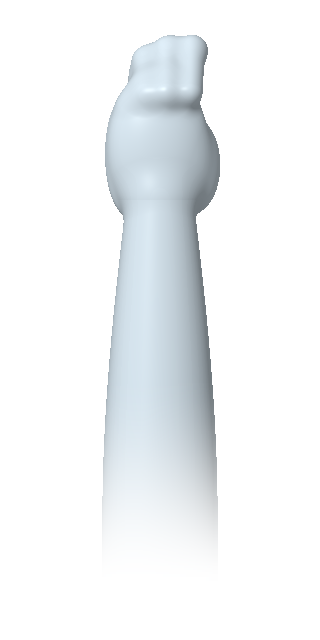
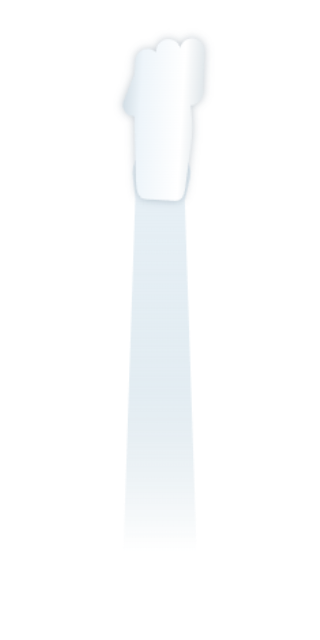
Fix camera-facing grip detection and smooth folded ghost gloves

Changed region(s): [[0.3125, 0.0312, 0.6875, 0.8438]]

diff --git a/src/live-glove.js b/src/live-glove.js
@@ -1,19 +1,31 @@
 const distance=(a,b)=>Math.hypot(a.x-b.x,a.y-b.y);
 const mix=(a,b,t)=>({x:a.x+(b.x-a.x)*t,y:a.y+(b.y-a.y)*t});
+// Union of tapered segments with round ends. Tangents across a folded finger
+// can reverse; building one outline from those tangents creates bow-ties/spikes.
 function tube(path,points,radii){
- const sides=[[],[]];
  for(let i=0;i<points.length;i++){
-  const a=points[Math.max(0,i-1)],b=points[Math.min(points.length-1,i+1)],length=Math.max(.001,distance(a,b));
-  const nx=-(b.y-a.y)/length,ny=(b.x-a.x)/length;
-  for(let side=0;side<2;side++){const r=radii[i]*(side?-1:1);sides[side].push({x:points[i].x+nx*r,y:points[i].y+ny*r})}
+  const p=points[i],r=radii[i];path.moveTo(p.x+r,p.y);path.arc(p.x,p.y,r,0,Math.PI*2);path.closePath();
+  if(!i)continue;
+  const a=points[i-1],length=distance(a,p);if(length<.001)continue;
+  const nx=-(p.y-a.y)/length,ny=(p.x-a.x)/length,ra=radii[i-1];
+  // Same winding as the circular caps, so overlapping folds stay solid.
+  path.moveTo(a.x+nx*ra,a.y+ny*ra);path.lineTo(a.x-nx*ra,a.y-ny*ra);
+  path.lineTo(p.x-nx*r,p.y-ny*r);path.lineTo(p.x+nx*r,p.y+ny*r);path.closePath();
  }
- roundedHull(path,[...sides[0],...sides[1].reverse()]);
+}
+function palmHull(points){
+ const sorted=[...points].sort((a,b)=>a.x-b.x||a.y-b.y),cross=(a,b,c)=>(b.x-a.x)*(c.y-a.y)-(b.y-a.y)*(c.x-a.x);
+ const half=items=>{const out=[];for(const p of items){while(out.length>1&&cross(out.at(-2),out.at(-1),p)<=0)out.pop();out.push(p)}return out};
+ return [...half(sorted).slice(0,-1),...half(sorted.toReversed()).slice(0,-1)];
 }
 function roundedHull(path,points){
  const area=points.reduce((v,p,i)=>{const q=points[(i+1)%points.length];return v+p.x*q.y-p.y*q.x},0);
  if(area<0)points=[...points].reverse();
- const start=mix(points.at(-1),points[0],.5);path.moveTo(start.x,start.y);
- for(let i=0;i<points.length;i++){const q=mix(points[i],points[(i+1)%points.length],.5);path.quadraticCurveTo(points[i].x,points[i].y,q.x,q.y)}path.closePath();
+ const start=mix(points[0],points.at(-1),.18);path.moveTo(start.x,start.y);
+ for(let i=0;i<points.length;i++){
+  const p=points[i],before=mix(p,points[(i+points.length-1)%points.length],.18),after=mix(p,points[(i+1)%points.length],.18);
+  path.lineTo(before.x,before.y);path.quadraticCurveTo(p.x,p.y,after.x,after.y);
+ }path.closePath();
 }
 // A single softly shaded silhouette has no drawn joint spheres, nails or knuckle lines.
 // All five finger curves come directly from the 21 live landmarks, including partial curls.
@@ -26,7 +38,10 @@ function paintGlove(ctx,hand,palm,elbow=null,thumbInside=false){
  const cuff=[{x:wrist.x+nx*size*.22,y:wrist.y+ny*size*.22},{x:wrist.x-nx*size*.22,y:wrist.y-ny*size*.22}];
  // Order the wrist edges by proximity to the thumb side; this survives hand rotation.
  if(distance(cuff[0],hand[1])>distance(cuff[1],hand[1]))cuff.reverse();
- roundedHull(path,thumbInside?[cuff[0],mix(hand[1],hand[5],.5),hand[5],hand[9],hand[13],hand[17],cuff[1]]:[cuff[0],hand[1],hand[2],hand[5],hand[9],hand[13],hand[17],cuff[1]]);
+ roundedHull(path,palmHull(thumbInside?[cuff[0],mix(hand[1],hand[5],.5),hand[5],hand[9],hand[13],hand[17],cuff[1]]:[cuff[0],hand[1],hand[2],hand[5],hand[9],hand[13],hand[17],cuff[1]]));
+ // When the thumb folds across the index base, its pad covers the web space.
+ // Join that contact area so a closed glove cannot acquire a triangular hole.
+ if(!thumbInside&&distance(hand[3],hand[5])<size*.55)roundedHull(path,palmHull([hand[1],hand[2],hand[3],hand[5],hand[9]]));
  for(let digit=thumbInside?1:0;digit<5;digit++){
    const start=1+digit*4,ids=[start,start+1,start+2,start+3],radius=r*(digit===0?1.16:digit===4?.83:1);
    tube(path,ids.map(i=>hand[i]),[radius*1.08,radius,radius*.87,radius*.78]);
@@ -54,7 +69,7 @@ function paintGlove(ctx,hand,palm,elbow=null,thumbInside=false){
 
 let surface;
 // Composite the complete glove once so overlapping fingers never become brighter blobs.
-export function drawLiveGlove(ctx,hand,palm,elbow=null,thumbInside=false){
+export function drawLiveGlove(ctx,hand,palm,elbow=null,thumbInside=false,opacity=.78){
  if(!hand)return;
  surface??=Object.assign(document.createElement('canvas'),{width:512,height:512});
  const all=elbow?[...hand,elbow]:hand,pad=Math.max(12,distance(hand[0],hand[9])*.5);
@@ -62,5 +77,5 @@ export function drawLiveGlove(ctx,hand,palm,elbow=null,thumbInside=false){
  const w=Math.max(...all.map(p=>p.x))-x+pad,h=Math.max(...all.map(p=>p.y))-y+pad,s=Math.min(2,512/Math.max(w,h));
  const paint=surface.getContext('2d');paint.setTransform(1,0,0,1,0,0);paint.clearRect(0,0,512,512);
  paint.setTransform(s,0,0,s,-x*s,-y*s);paintGlove(paint,hand,palm,elbow,thumbInside);
- ctx.save();ctx.globalAlpha=.78;ctx.drawImage(surface,0,0,w*s,h*s,x,y,w,h);ctx.restore();
+ ctx.save();ctx.globalAlpha=opacity;ctx.drawImage(surface,0,0,w*s,h*s,x,y,w,h);ctx.restore();
 }

diff --git a/src/collar-interaction.js b/src/collar-interaction.js
@@ -39,9 +39,9 @@ export function collarHit(point,deformation=[],excluded=[]){
  for(const side of [-1,1]){
   if(excluded.includes(side))continue;
   for(let k=0;k<=120;k++){
-   const t=k/120,rest=lapelRest(side,t);if(rest.y<.145||rest.y>.43)continue;
+   const t=k/120,rest=lapelRest(side,t);if(rest.y<.12||rest.y>.46)continue;
    const p=lapelPoint(side,t,deformation),d=Math.hypot(point.x-p.x,point.y-p.y);
-   if(d<.092&&(!best||d<best.distance))best={side,t,point:p,distance:d};
+   if(d<.13&&(!best||d<best.distance))best={side,t,point:p,distance:d};
   }
  }
  return best;
@@ -58,19 +58,19 @@ function fingerExtensions(hand){
 }
 export function fingerExtension(hand){const ratios=fingerExtensions(hand);return ratios?ratios.reduce((a,b)=>a+b,0)/4:null}
 function deliberatelyOpen(hand){return fingerExtensions(hand)?.every(r=>r>.94)??false}
-// Use the 3D palm normal, including depth: a natural grip may be edge-on
-// to the webcam. A 2D projected-area test would force the user to flatten it.
+// Camera-facing normal only: gravity/vertical tilt must not swap palm and back.
+// In projected mirrored coordinates a positive value means palm toward camera.
+export function cameraPalmNormal(hand,index,mirrored=true){
+ const w=hand[0],a=hand[5],b=hand[17];
+ const u={x:a.x-w.x,y:a.y-w.y,z:(a.z??0)-(w.z??0)},v={x:b.x-w.x,y:b.y-w.y,z:(b.z??0)-(w.z??0)};
+ const nx=u.y*v.z-u.z*v.y,ny=u.z*v.x-u.x*v.z,nz=u.x*v.y-u.y*v.x,length=Math.hypot(nx,ny,nz);
+ return length<.00001?0:nz*(index?-1:1)*(mirrored?-1:1)/length;
+}
 export function gripPosture(hand,index,side,mirrored,direction){
- const center=graspCenter(hand),wrist=hand[0],dx=center.x-wrist.x,dy=center.y-wrist.y,length=Math.hypot(dx,dy);
  if(side!==(index?-1:1)*(mirrored?1:-1))return 'opposite';
- if(length<.025||side*dx/length<.25||dy/length>-.12)return 'diagonal';
- const a=hand[5],b=hand[17],u={x:a.x-wrist.x,y:a.y-wrist.y,z:(a.z??0)-(wrist.z??0)},v={x:b.x-wrist.x,y:b.y-wrist.y,z:(b.z??0)-(wrist.z??0)};
- const nx=u.y*v.z-u.z*v.y,ny=u.z*v.x-u.x*v.z,nz=u.x*v.y-u.y*v.x;
- const length3D=Math.hypot(nx,ny,nz);
- if(length3D<.00001)return 'turn';
- // Downward and toward-camera components form the expected grip hemisphere.
- const normal=(ny-nz)*(index?-1:1)*(mirrored?1:-1)/(Math.SQRT2*length3D);
- if(Math.abs(normal)<.10)return 'turn';
+ const normal=cameraPalmNormal(hand,index,mirrored);
+ // Allow broad tilt, but an edge-on hand supplies no reliable front/back signal.
+ if(Math.abs(normal)<.20)return 'turn';
  if((normal>0)!==(direction==='↓'))return 'palm';
  return null;
 }
@@ -103,7 +103,7 @@ export class CollarInteraction{
     continue;
    }
    const center=graspCenter(hand);
-   if(extension>.90)h.closed=false;else if(extension<.86)h.closed=true;
+   if(extension>.96)h.closed=false;else if(extension<.92)h.closed=true;
    if(h.grip){
     // Opening must be clear and sustained; a curled grip never unlatches merely
     // because it left the original collision zone while being pulled.
@@ -130,11 +130,11 @@ export class CollarInteraction{
    h.posture=h.hover?gripPosture(hand,i,h.hover.side,mirrored,directions[i]):null;
    h.armed=!!h.hover&&!h.posture;
    // Bent fingers may enter already prepared: no fully-open gesture is required.
-   // Stable contact + correct opposite lapel, diagonal wrist and palm orientation
+   // Stable contact + correct opposite lapel and camera-facing palm orientation
    // prevent an arbitrary fist or a flat open hand from attaching to the coat.
    if(!h.closed||!h.armed){h.pending=null;continue}
    if(!h.pending||h.pending.side!==h.hover.side)h.pending={...h.hover,since:now};
-   if(now-h.pending.since>=120){
+   if(now-h.pending.since>=100){
     const hit=h.hover,rest=lapelRest(hit.side,hit.t),offset={x:center.x-rest.x,y:center.y-rest.y};
     h.grip={side:hit.side,t:hit.t,start:center,center,offset,dx:offset.x,dy:offset.y,travelX:0};h.pending=null;
    }

diff --git a/src/app.js b/src/app.js
@@ -134,7 +134,7 @@ function draw(now){
   }else drawGripGuides(ctx,scene,practiceGuide(selected,(now-guideStarted)/1000),activeTechnique.directions,mirrored,GRIP_STEPS[selected]);
   const feedback=demonstrating?`깃 안쪽: ${activeTechnique.directions.map((d,i)=>`${i?'오른손':'왼손'} ${d==='↑'?'네 손가락':'엄지'}`).join(' · ')}`:
     state?.trackingPaused?'깃은 잡고 있습니다. 양손이 다시 보이면 당김 판정을 이어갑니다.':!state?.visible?'양손과 어깨가 보이도록 서 주세요.':state.tapped?'TAP! 손을 펴서 깃을 놓으세요.':
-    state.posture?.some(p=>p==='palm'||p==='turn')?'기술 설명의 손바닥 방향으로 손을 돌려 깃을 잡으세요.':state.posture?.some(Boolean)?'손목을 비스듬히 교차해 각각 반대편 깃을 잡으세요.':
+    state.posture?.some(p=>p==='palm'||p==='turn')?`카메라에 왼손 ${activeTechnique.directions[0]==='↓'?'손바닥':'손등'}, 오른손 ${activeTechnique.directions[1]==='↓'?'손바닥':'손등'}이 보이게 해 주세요.`:state.posture?.some(Boolean)?'각 손으로 반대편 깃을 잡으세요.':
     state.count===0?'손가락을 굽히고 손목을 교차해 반대편 깃을 잡으세요.':state.count===1?'한쪽 깃이 잡혔습니다. 다른 손으로 반대쪽 깃을 잡으세요.':
     !state.crossed?'손을 교차해 각각 반대편 깃을 잡으세요.':state.pullDirection==='together'?'양손이 같은 방향으로 움직였습니다. 서로 반대 방향으로 당겨 주세요.':state.tension<.7?'양쪽 깃이 잡혔습니다. 쥔 손을 양옆으로 당기세요.':'깃이 당겨지고 있습니다. 잠깐 유지하세요.';
   $('tracking-label').textContent=demonstrating?'시연 중':state?.visible?`${state.visible}개 손 인식 · ${state.count}개 깃 잡힘`:stream?'인식 대기':'대기';

diff --git a/README.md b/README.md
@@ -18,7 +18,7 @@
 
 1. 수련하기를 누르면 고정된 도복 상대 위에서 반투명 흰색 손이 준비 → 왼손 교차 → 오른손 교차 → 유지 → 풀기를 12초 주기로 시연합니다. 카메라는 아직 켜지지 않습니다.
 2. 내 동작 연습을 눌러 카메라를 연결하세요. 처음에는 카메라 권한을 허용합니다. 연결되면 3초 준비 후 연습이 시작됩니다. 기술 설명과 그립 방향은 오른쪽 패널에서 봅니다.
-3. 손가락을 굽힌 준비 자세로 손목을 교차해 각각 반대편 깃에 접근합니다. 올바른 손바닥 방향과 대각선 손목 자세에서 120ms 이상 접촉하면 잡힙니다. 손을 완전히 폈다가 쥘 필요는 없습니다. 깃 밖, 같은 쪽 깃, 잘못된 손바닥 방향, 수직 손목은 잡기로 인정하지 않습니다.
+3. 손가락을 굽힌 준비 자세로 손목을 교차해 각각 반대편 깃에 접근합니다. 카메라를 향하는 면은 십자조르기에서 양 손바닥, 역십자조르기에서 양 손등입니다. 반쯤 쥔 손도 100ms 이상 접촉하면 잡히며, 손목을 특정 대각선 각도로 기울이거나 손을 완전히 폈다가 쥘 필요는 없습니다. 깃 밖, 같은 쪽 깃, 반대 면, 앞뒤를 구분하기 어려운 손날 자세는 잡기로 인정하지 않습니다.
 4. 깃·앞섶·주름은 이완/주름 모임/중간 당김/팽팽함 네 단계의 벡터 그림으로 다시 그립니다. 좌우 앞섶의 그림은 각 손의 당김에 따라 따로 전환하며, 단계 사이에서는 선의 제어점만 보간합니다. 이미지 픽셀이나 텍스처 메시를 늘리지 않습니다. 목선과 허리띠는 고정됩니다. 양손으로 서로 다른 반대편 깃을 잡고 양옆으로 당긴 상태를 1.2초 유지하면 상대가 손으로 탭합니다. TAP 안내 뒤 20 XP와 완료 도장이 기록됩니다. 네 손가락을 확실히 편 상태가 200ms 유지되면 깃을 놓습니다. 짧은 가림은 800ms 동안 그립을 보존하고 탭 진행을 멈춥니다. 인식이 돌아오면 같은 위치에서 이어가며, 800ms 이상 인식이 끊기면 놓습니다.
 5. 기술별 XP는 최초 1회 지급하며 다시 연습해도 중복되지 않습니다. 현재 연습 보상은 3종 합계 60 XP이며, 이전 퀴즈에서 받은 XP는 유지합니다.
 
@@ -31,7 +31,7 @@
 - MediaPipe Pose Landmarker와 Hand Landmarker의 기존 모델과 설정을 유지합니다. 추론은 Worker에서 실행합니다.
 - 어깨 너비를 기준으로 손을 고정된 상대 좌표에 투영합니다. 상대의 몸·머리 위치는 사용자 움직임을 따라가지 않습니다. 완료 시 상대의 한쪽 팔만 탭 동작을 합니다.
 - 흰 장갑이 실제 손가락의 펴기·부분 쥐기·주먹·교차를 따라갑니다. 표시 좌표에는 적응형 필터와 보간을 적용합니다.
-- `src/collar-interaction.js`의 동일한 깃 곡선을 그리기와 잡기 충돌 검사에 사용합니다. 준비된 손의 반대편 깃 접촉, 손목 대각선 방향, 선택한 기술의 손바닥 방향을 검사합니다. 잡힌 지점은 손 중심에 붙으며 `src/cloth-renderer.js`의 네 단계 그림이 깃 경계를 공유하는 앞섶·주름·일정한 크기의 바늘땀을 직접 그립니다. 목선과 허리는 고정됩니다.
+- `src/collar-interaction.js`의 동일한 깃 곡선을 그리기와 잡기 충돌 검사에 사용합니다. 준비된 손의 반대편 깃 접촉과 카메라를 향한 손바닥/손등을 검사합니다. 중력 방향을 섞지 않은 카메라 깊이축 법선을 사용하므로 손목의 화면 내 회전은 앞뒤 판정에 영향을 주지 않습니다. 접촉 허용 반경은 어깨 폭의 13%입니다. 잡힌 지점은 손 중심에 붙으며 `src/cloth-renderer.js`의 네 단계 그림이 깃 경계를 공유하는 앞섶·주름·일정한 크기의 바늘땀을 직접 그립니다. 목선과 허리는 고정됩니다.
 - 잡은 깃 하나당 25점, 올바르게 교차한 양손의 반대 방향 이동량으로 최대 50점을 더합니다. 양손이 서로 반대 방향으로 움직였을 때 덜 움직인 쪽의 이동량을 사용하므로 한 손만 당기거나 양손을 같은 방향으로 옮겨서는 탭하지 않습니다. 교차한 손을 각자의 어깨 쪽으로 되당기는 방향도 포함합니다. 양손 이동량이 어깨 너비의 14% 이상인 상태를 1.2초 유지해야 완료합니다.
 - 표시되는 당김은 가상 변위입니다. 실제 힘·혈류·압박을 계산하는 시뮬레이터가 아닙니다.
 - 확실한 놓기, 800ms 이상의 인식 끊김, 거울 전환, 재시작 시 잡기 상태를 해제합니다. 짧은 가림이나 한 프레임의 관절 위치 급변은 그립을 보존하고 채점을 멈춥니다. 큰 이동도 새 위치가 100ms 동안 이어지면 받아들이므로 당김이 0%로 고정되지 않습니다. 놓은 깃은 이완 그림으로 돌아옵니다.
@@ -116,7 +116,7 @@ node scripts/browser-hand-rig.cjs <Playwright 패키지 경로>
 
 `src/live-hands.js`의 적응형 필터와 프레임 사이 보간은 표시 좌표에만 적용합니다. 원래 인식 모델과 신뢰도 설정을 유지합니다. 채점은 가상 깃 잡기와 양손 당김 상태를 사용합니다. 인식이 끊긴 손은 숨기고 다시 검출되면 필터를 초기화합니다. 현실의 깃 접촉이나 압박의 적절성은 채점하지 않습니다.
 
-`src/live-glove.js`는 관절 구체나 손톱 없이 손바닥과 다섯 손가락의 윤곽을 한 표면으로 합성합니다. 손바닥은 넓은 음영과 얕은 주름으로 구분하고 팔목은 팔꿈치 방향으로 흐려집니다. GPU 렌더러 없이 Canvas 2D에서 동작합니다. 그립 설명과 자동 시연에서는 이어진 도복 깃을 엄지/손끝 앞에 겹쳐 깃 안쪽으로 들어가는 부분을 표현합니다.
+`src/live-glove.js`는 관절 구체나 손톱 없이 손바닥과 다섯 손가락의 윤곽을 한 표면으로 합성합니다. 접힌 손가락은 둥근 끝을 가진 구간들의 합집합으로 채워 윤곽선 역전이나 구멍을 방지합니다. 자동 시연용 흰 장갑 PNG도 같은 렌더러로 생성합니다. 손바닥은 넓은 음영과 얕은 주름으로 구분하고 팔목은 팔꿈치 방향으로 흐려집니다. GPU 렌더러 없이 Canvas 2D에서 동작합니다. 그립 설명과 자동 시연에서는 이어진 도복 깃을 엄지/손끝 앞에 겹쳐 깃 안쪽으로 들어가는 부분을 표현합니다.
 
 ```sh
 node --test tests/*.test.mjs
